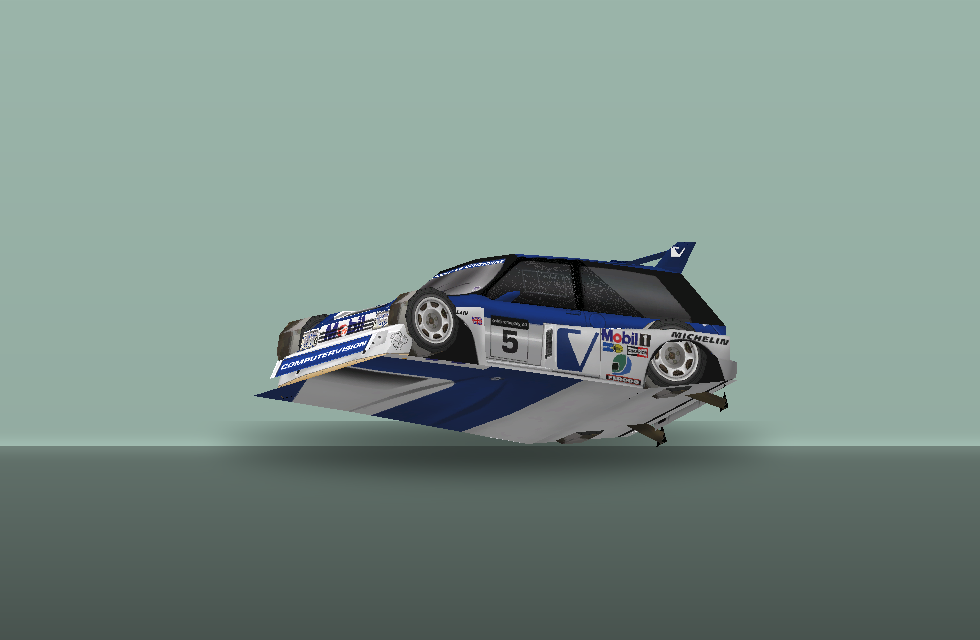
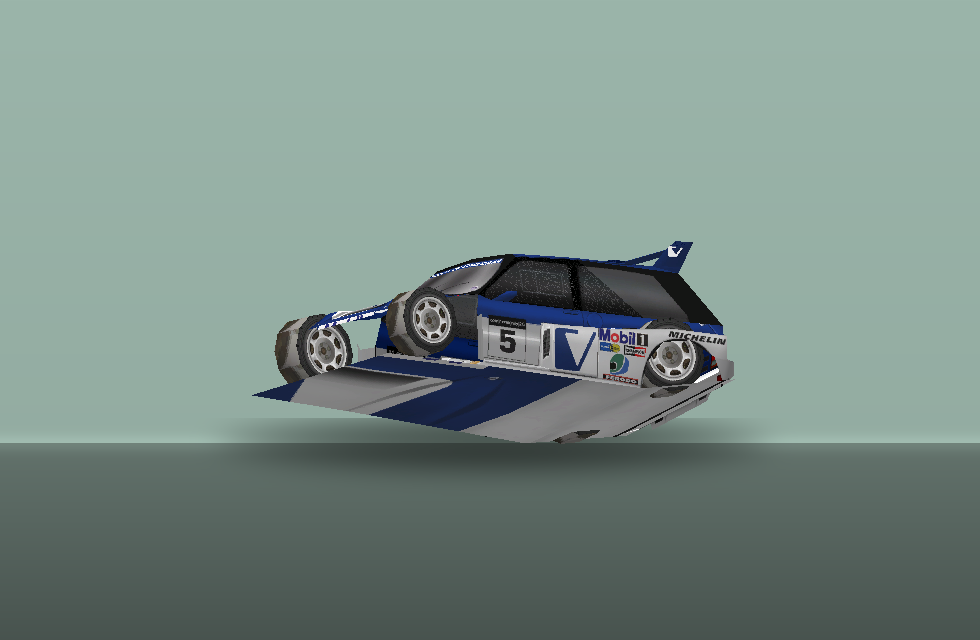
render: fix the part filter, regenerate the cars, correct the page
skip_parts had never worked. build() tested it with np.isin(TP, skip_parts),
but every caller passed a SET, and np.asarray({12}) is a 0-d OBJECT array --
so isin matched nothing and the parameter was silently inert from the first
commit. The wheel list worked because wids is a plain list. Normalised.

What that hid: a .c3d is a SET of render passes, not one mesh. 205a1N holds 14
parts and only six are bodywork. 06UnlitSim (the unlit shadow/interior pass),
15undsim, 05BonCar and 14LightEffe are unlit/additive/special-cased in the
engine; this rasteriser draws everything opaque and lit, so drawing them left a
flat grey slab through the middle of every car in every image this pipeline
ever produced. build() now drops them, selected by the two-character draw-order
prefix -- stable across the fleet where the names are not (06UnlitSim /
06IntSim / 06Unlit, 15undsim / 15UndSim, 09Bonnet / 09BonDay).

Measured: 06UnlitSim alone was ~8,600 px of dark grey in the 205's frame.
Regenerated all eight assets. Side-by-side against the committed ones, the old
render reads broken and the new one clean.

Page corrections, all of them things the repo already knew:

* README still said the road does NOT separate from the terrain. Commit c60a048
  says the opposite. Corrected, WITH its limit -- road_edge clears on two of
  five race frames, not consistently.
* docs/RENDER.md linked CAR-FORMAT.md, which is not in this repository. Pointed
  at docs/CAR.md. Zero broken links repo-wide now.
[…]

diff --git a/tools/render/render_tex.py b/tools/render/render_tex.py
@@ -27,8 +27,25 @@ import c3dlib
 # axle positions for the CMR2 fleet (metres, car space)
 WHEEL_X, WHEEL_Y, WHEEL_Z = 1.245, -0.227, 0.747
 
+# A .c3d is a set of render passes, not one mesh, and only some of them are the
+# car. The first two characters of a part name are its draw-order prefix, and
+# those ARE stable across the fleet -- the rest of the name is not
+# (06UnlitSim / 06IntSim / 06Unlit, 15undsim / 15UndSim, 09Bonnet / 09BonDay).
+#   05  bonnet-camera interior        14  light-effect flares
+#   06  unlit shadow / interior sim   15  underbody sim
+# This viewer draws everything opaque and lit, so those four passes come out as
+# a grey slab under the car and loose plates floating around it. They are not
+# part of the body and must not be drawn.
+NON_BODY_PREFIX = ('05', '06', '14', '15')
 
-def build(cid, skip_parts=()):
+
+def non_body_ids(parts):
+    """Part ids of the sim / camera / effect passes, ready for skip_parts."""
+    return [q['idx'] for q in parts
+            if 'Whl' not in q['name'] and q['name'][:2] in NON_BODY_PREFIX]
+
+
+def build(cid, skip_parts=(), skip_non_body=True):
     """-> (hdr, parts, V, N, UV, T, TP)  with wheels stamped at the 4 corners."""
     m = c3dlib.C3D(c3dlib.car_file(cid))
     P = m.parts()
@@ -37,7 +54,14 @@ def build(cid, skip_parts=()):
     UV = np.array(uvs, np.float64); T = np.array(tris, np.int32); TP = np.array(tpart, np.int32)
 
     wids = [p['idx'] for p in P if 'Whl' in p['name']]
-    isw = np.isin(TP, wids) | np.isin(TP, skip_parts)
+
+    # np.isin(TP, {5}) matches NOTHING: np.asarray({5}) is a 0-d OBJECT array,
+    # not an array of elements. Every caller passed a set, so skip_parts was
+    # silently ignored from the day this was written. Normalise to a list.
+    skip = [int(x) for x in skip_parts]
+    if skip_non_body:
+        skip = skip + non_body_ids(P)
+    isw = np.isin(TP, wids) | np.isin(TP, skip)
     body_t, body_tp = T[~isw], TP[~isw]
     keep_v = np.unique(body_t) if len(body_t) else np.array([], np.int32)
     remap = -np.ones(len(V), np.int32); remap[keep_v] = np.arange(len(keep_v))

diff --git a/tools/render/make_assets.py b/tools/render/make_assets.py
@@ -81,7 +81,7 @@ def ground(im, mask):
 def car(cid, W=980, H=640, az=214.0, el=12.0, cars=None):
     """Render one car and ground it. Returns (grounded_rgb, raw_rgb, mask)."""
     d = tex.textures_for(cid, cars)
-    m, P, V, N, UV, T, TP = R.build(cid, skip_parts={12})
+    m, P, V, N, UV, T, TP = R.build(cid)
     tmap = livery.build_texmap(cid, d)
     im, mk = R.render(V, N, UV, T, TP, tmap, livery.FB,
                       W=W, H=H, az=az, el=el, dist=10.6, fov=28,
@@ -94,7 +94,7 @@ def hero(cid, path, W=1280, H=430, cars=None):
     alpha from an RGB file and the car's own background comes with it, which
     shows up as a pale rectangle pasted over the gradient."""
     d = tex.textures_for(cid, cars)
-    m, P, V, N, UV, T, TP = R.build(cid, skip_parts={12})
+    m, P, V, N, UV, T, TP = R.build(cid)
     tmap = livery.build_texmap(cid, d, verbose=False)
     raw, mask = R.render(V, N, UV, T, TP, tmap, livery.FB,
                          W=900, H=620, az=214.0, el=12.0, dist=10.6, fov=28,

diff --git a/README.md b/README.md
@@ -12,14 +12,15 @@ The actual engine, recompiled for Linux.
 
 The game's own `.c3d` geometry and `.bfl` liveries, decoded and rasterised by a renderer
 written from scratch in this repo: [`tools/render/`](tools/render/) — no 3D engine, no game
-process, no GPU. Point it at your own copy and it regenerates every image on this page:
+process, no GPU. Point it at your own copy and it regenerates the car images on this page:
 
 ```sh
 CMR2_CARS=/path/to/game/Game/Cars python3 tools/render/make_assets.py
 ```
 
-See [`docs/RENDER.md`](docs/RENDER.md) for the format notes and the two things that are easy
-to get wrong (wheel placement, and the livery-vs-AO texture choice).
+See [`docs/RENDER.md`](docs/RENDER.md) for the format notes and the three things that are easy
+to get wrong (wheel placement, the livery-vs-AO texture choice, and — measured 15 October
+— **which parts of a `.c3d` are actually the car**).
 
 | | | | |
 |---|---|---|---|
@@ -38,14 +39,14 @@ to get wrong (wheel placement, and the livery-vs-AO texture choice).
 >
 > Then come back here — the rest of this page is the detail behind those three.
 
-> **Just want to LOOK at the game?** → **the screenshots in this README**
-> published so far, full-size 1280×800 PNG, no downscale: the 09:27 build he called
-> *"amazing"* next to tonight's, plus frames of his own live session. Open them directly;
-> nothing there is a mock-up.
+> **Just want to LOOK at something?** The four cars and the banner on this page are drawn
+> by this repo's own renderer from the game's own files. The race frame is the game's own
+> 3D path on a Steam Deck. Full-size originals are in [`assets/`](assets/) and
+> [`docs/media/`](docs/media/). Nothing here is a mock-up and nothing is a target render.
 
 ---
 
-> **12 October 2026.** The game boots its own frontend, loads a real Kenya stage off
+> **15 October 2026.** The game boots its own frontend, loads a real Kenya stage off
 > disk, and drives a car with the game's own physics — on this project's renderer, on a
 > Steam Deck. **A full stage has been driven start to finish.**
 >
@@ -56,12 +57,21 @@ to get wrong (wheel placement, and the livery-vs-AO texture choice).
 > built; and near-plane geometry was **smeared across the frame**. Each has a written
 > report in `docs/`.
 >
-> **It is still not *right*:** the road does not separate from the terrain — one
-> continuous warm field, white-on-white on snow stages. The honest record of that search
-> is worth more than a clean claim: we tested the obvious cause (the game's per-vertex
-> colours) and *measured that it is not the answer*; we tested the lighting term and it
-> came back a 1.0000 no-op. **That 1.0000 is now understood**, and so is the fog term —
-> both were read out of the game's own decompiled source on 14 October:
+> **The picture broke through on 14 October: the road separates from the terrain.**
+> Confirmed three ways — colour separation across eight coherent dirt materials,
+> monotonic edge tracking (`x700@y460` → `x580@y580`), and an independent implementation
+> on the phone side measuring ground `|dL/dx|` **1.68** against the terrain's **14.50**,
+> 8.6×, same direction. The wall that had stood since 5 October is down.
+> Read the limit honestly: `road_edge` clears the threshold on **two of five** race frames
+> (6.99 / 7.90), against Sweden's undrivable 1.04. It is not consistent yet.
+>
+> **What is still not *right*:** the road does not yet recede to a horizon, and there is a
+> new #1 defect — **the sky clips to pure white** (80 rows of exact 255, hard step,
+> world-locked, only when the camera pitches up). The honest record of the search is worth
+> more than a clean claim: we tested the obvious cause (the game's per-vertex colours) and
+> *measured that it is not the answer*; we tested the lighting term and it came back a
+> 1.0000 no-op. **That 1.0000 is now understood**, and so is the fog term — both were read
+> out of the game's own decompiled source on 14 October:
 >
 > - **[`docs/AMBIENT-CONTRADICTION-RESOLVED.md`](docs/AMBIENT-CONTRADICTION-RESOLVED.md)** —
 >   the lighting term is not a no-op. The port keeps a hardcoded material ambient of 1.0
@@ -121,8 +131,9 @@ across the world.
 
 ![A race frame from the native port](docs/media/race-frame.jpg)
 
-*The game's own renderer running a stage on a Steam Deck. The road does not separate
-from the terrain yet — that is the open lighting bug, named in
+*The game's own renderer running a stage on a Steam Deck. The road now separates from
+terrain — measured three ways on 14 October, on two of five race frames. What is still
+wrong is the sky, which clips to white. Both are named in
 [`docs/ROAD-r6-REPORT.md`](docs/ROAD-r6-REPORT.md).*
 
 Nothing here is a mock-up and nothing here is a rendering of what we hope it will look
@@ -146,7 +157,8 @@ the public documentation both do this).
 | **Watch the game's own code run on Linux** | ⚠ Yes — boots to its frontend, loads a stage, runs the race loop | `docs/PLAY-CHECKPOINT.md` |
 | **A session that lasts longer than two minutes** | ✅ **Yes, since 11 Oct** — the GPU bug that ended every run is fixed | `docs/GPU-LIFETIME-FIX.md` |
 | **A car you can actually drive** | ⚠ **Yes again since 11 Oct 11:02** — our own tool had broken it for 2½ hours | `docs/DRIVE-LOOP-REGRESSION.md` |
-| **Lighting that looks like the original** | ❌ No — the road's per-vertex shading is dropped | `docs/ROAD-r6-REPORT.md` |
+| **The road visible on screen** | ⚠ **Partly, since 14 Oct** — separates on 2 of 5 race frames | `docs/ROAD-r6-REPORT.md` |
+| **Lighting that looks like the original** | ❌ No — a hardcoded material ambient of 1.0, scene ambient discarded | `docs/AMBIENT-CONTRADICTION-RESOLVED.md` |
 | **The car in the setup screen** | ❌ No — it renders collapsed | `docs/MENU-CAR-EVIDENCE.md` |
 | **More than half the game's code compiling for Linux** | ✅ 54 of 66 files (compile-level) | `docs/PORT-PLAN.md` |
 | **The rest compiling** | ❌ Not yet — pointer-width work, 385 sites left in 12 files | `docs/PORT-PLAN.md` |

diff --git a/docs/RENDER.md b/docs/RENDER.md
@@ -26,7 +26,7 @@ The field map in `c3dlib.py` is measured from the files, not inferred — see
 
 ---
 
-## The two things that are easy to get wrong
+## The three things that are easy to get wrong
 
 ### 1. A car is not one mesh, and the wheels are not where you think
 
@@ -46,7 +46,7 @@ These are the fleet's axle positions. A car with a different track or wheelbase 
 adjusted — the same constraint the engine has: the game reads `halfExtents` and
 `wheelPos[4]` for physics and **never consults the mesh**, so a swapped model whose wheels
 do not match its collision box will have its wheels visibly detach. See
-[`CAR-FORMAT.md`](CAR-FORMAT.md).
+[`CAR.md`](CAR.md).
 
 There are also **ten `.c3d` variants per car** (`a1`, `a5`, `c1`, `c3`, `c5`, `d1`, `d3`,
 `e3`, `f3`, `f4`). The suffix is a variant selector, not a side — `L` is *light wheels* and
@@ -65,6 +65,45 @@ best  = max(cands, key=lambda k: sat(d[k]))
 
 Parts left deliberately untextured: the lights and the underbody. In the engine these are
 unlit / additive, and giving them a body texture makes them look painted on.
+
+### 3. A `.c3d` is a set of render passes, and only some of them are the car
+
+Measured 15 October, and it had been wrong in every image this pipeline ever produced.
+
+A car file is not "the car". Laid out by name, `205a1N.c3d` holds fourteen parts and only
+six of them are bodywork:
+
+```
+01WhlLOD00 x4   the wheels (stamped to the four corners by build())
+05BonCam        bonnet-camera interior
+06UnlitSim      unlit shadow / interior pass
+07SemiTrans     glass
+08BodySim       ┐
+09Bonnet        │
+10RBump         │  the body panels
+11Boot10        │
+13RSpoiler      ┘
+14LightEffe     light-effect flares, unlit / additive
+15undsim        underbody pass
+```
+
+None of `06UnlitSim`, `15undsim`, `05BonCam` or `14LightEffe` is bodywork. In the engine
+they are unlit, additive or otherwise special-cased passes. This rasteriser draws
+everything opaque and lit, so drawing them leaves a large flat grey slab through the
+middle of the car and loose plates around it — which reads as an exploded model and is
+not one. `build()` now drops them, selected by the **first two characters** of the part
+name: those prefixes are stable across the fleet even where the names are not
+(`06UnlitSim` / `06IntSim` / `06Unlit`, `15undsim` / `15UndSim`, `09Bonnet` / `09BonDay`).
+
+**The bug that hid it.** `build()` accepted `skip_parts` and tested it with
+`np.isin(TP, skip_parts)` — but every caller passed a **set**, and `np.asarray({12})` is a
+0-d *object* array, not an array of elements. `np.isin` therefore matched nothing, every
+time, and the parameter was silently inert from the first commit. The wheel list worked
+because `wids` is a plain **list**; the two were written the same way and behaved
+differently. The fix normalises to a list.
+
+A parameter that is accepted, documented, and never once applied is invisible to every
+check that only asks *did it run*.
 
 ---
 
@@ -88,11 +127,34 @@ especially with a language model looking at the picture. The check that settles 
 numeric, and it is the one this pipeline was validated with:
 
 * **runs per row** — walk each row of the silhouette and count the number of continuous
-  spans. An intact car is **1** on essentially every row. An exploded mesh shows **5–10**.
-* **bounding-box fill** — intact cars land around **0.65–0.70**.
+  spans. Re-measured across the fleet on 15 October, the honest figures are **1 on ~60 % of
+  rows, 2 on ~33 %, and never more than 3** (e.g. 205: 54 rows of 1, 32 of 2, 2 of 3). The
+  extra spans are the wheels separating from the body below the sill, which is correct. An
+  exploded mesh shows **5-10 per row**, so the useful threshold is the **maximum**, not the
+  mean — a mean hides a handful of blown-out rows.
+* **bounding-box fill** — intact cars land around **0.56–0.69**, fleet-wide.
 
 Both numbers are stable across the whole fleet. If a change drops either of them, the
 geometry broke, whatever the render looks like.
+
+**And they did not catch the defect in §3.** Both passed on every image this pipeline
+had ever produced, because the stray parts were *coincident* with the body rather than
+detached from it: the silhouette stayed one span per row, the fill stayed in range, and
+the car was still wrong. These two checks verify that the mesh is **connected**. They
+cannot verify that the mesh is the **right** mesh.
+
+What found it was isolating one part at a time and rendering it *at a fixed camera*.
+Two traps when you do that, both hit on the way here:
+
+* **`render()` re-centres the camera from whatever vertices you hand it.** Subset the
+  vertices along with the triangles and every part is framed differently, so the numbers
+  are not comparable and the part that "dominates" changes run to run. Keep the full
+  vertex array and subset **only** the triangle list.
+* **Do not ask a language model to settle it.** On this very inspect, one described a
+  correct render as seen *from below* — measured, the camera is 1.56 m above the roof —
+  and it called the car broken both before and after the fix. Use vision for *what is
+  there*; use the numbers for *which part is where*. A side-by-side A/B is far more
+  reliable than any single absolute description.
 
 For the banner specifically, the shadow is verifiable by rendering it twice at strength 0
 and 1 and diffing: the shadow should be present as a distinct region extending below the
